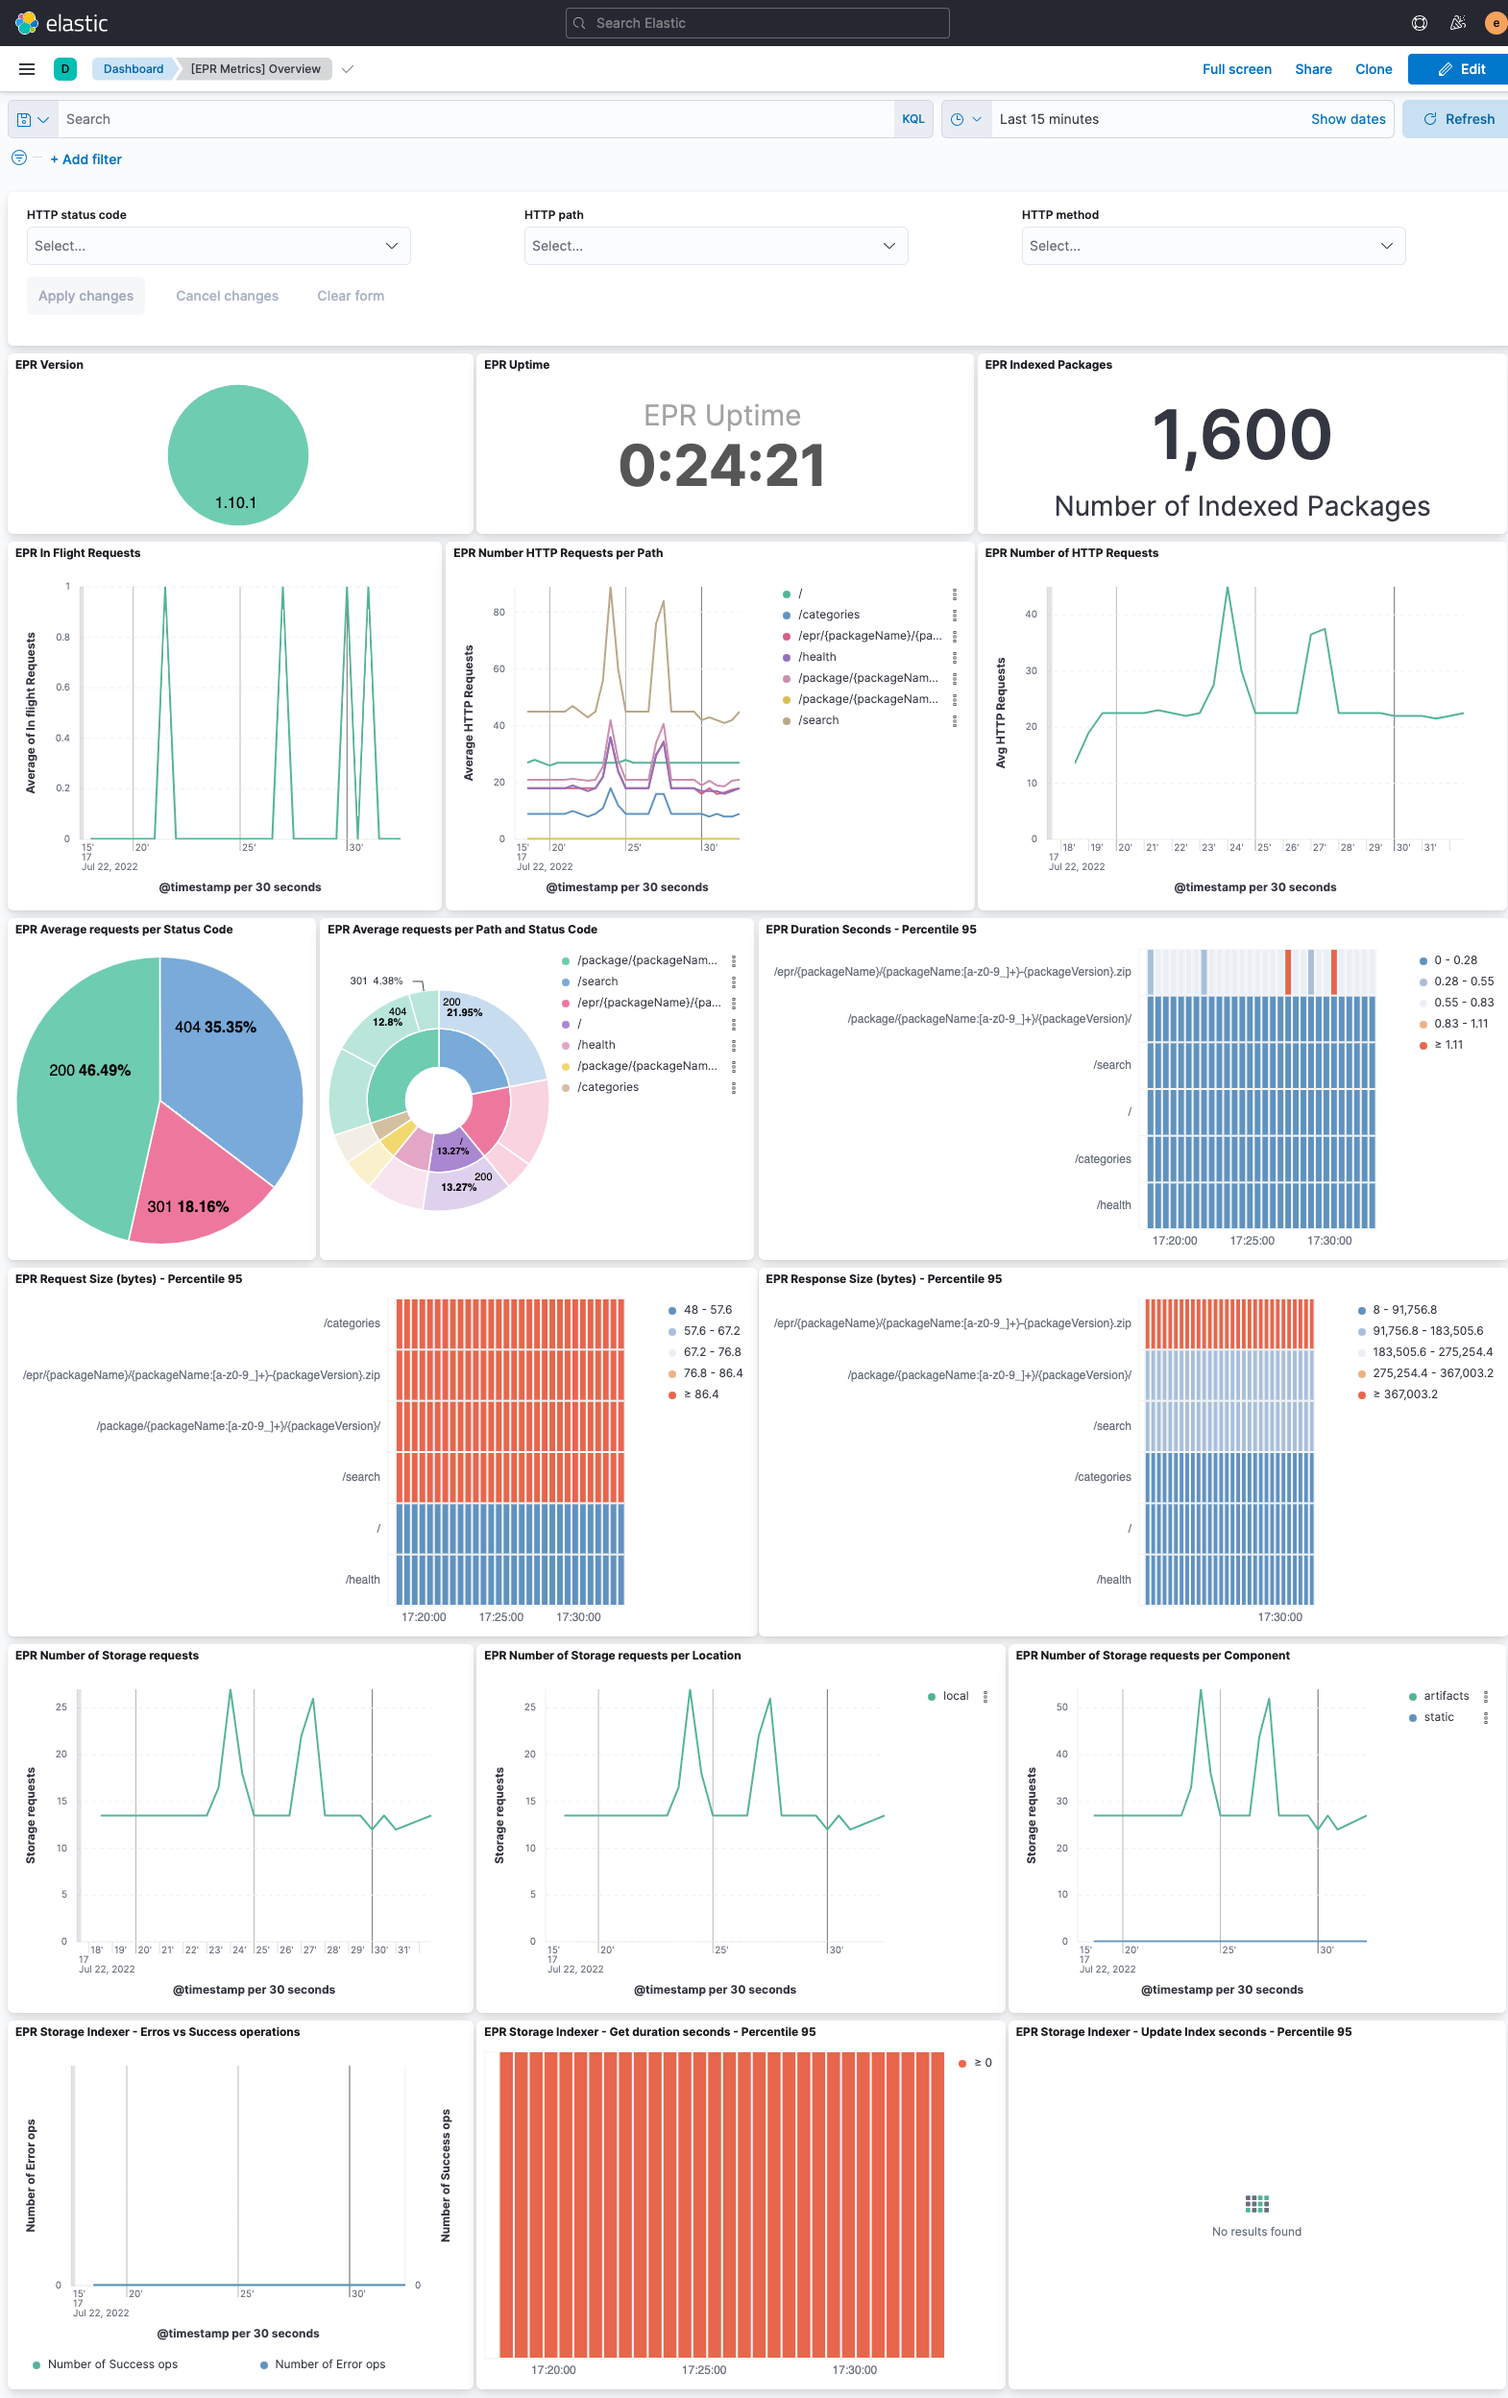
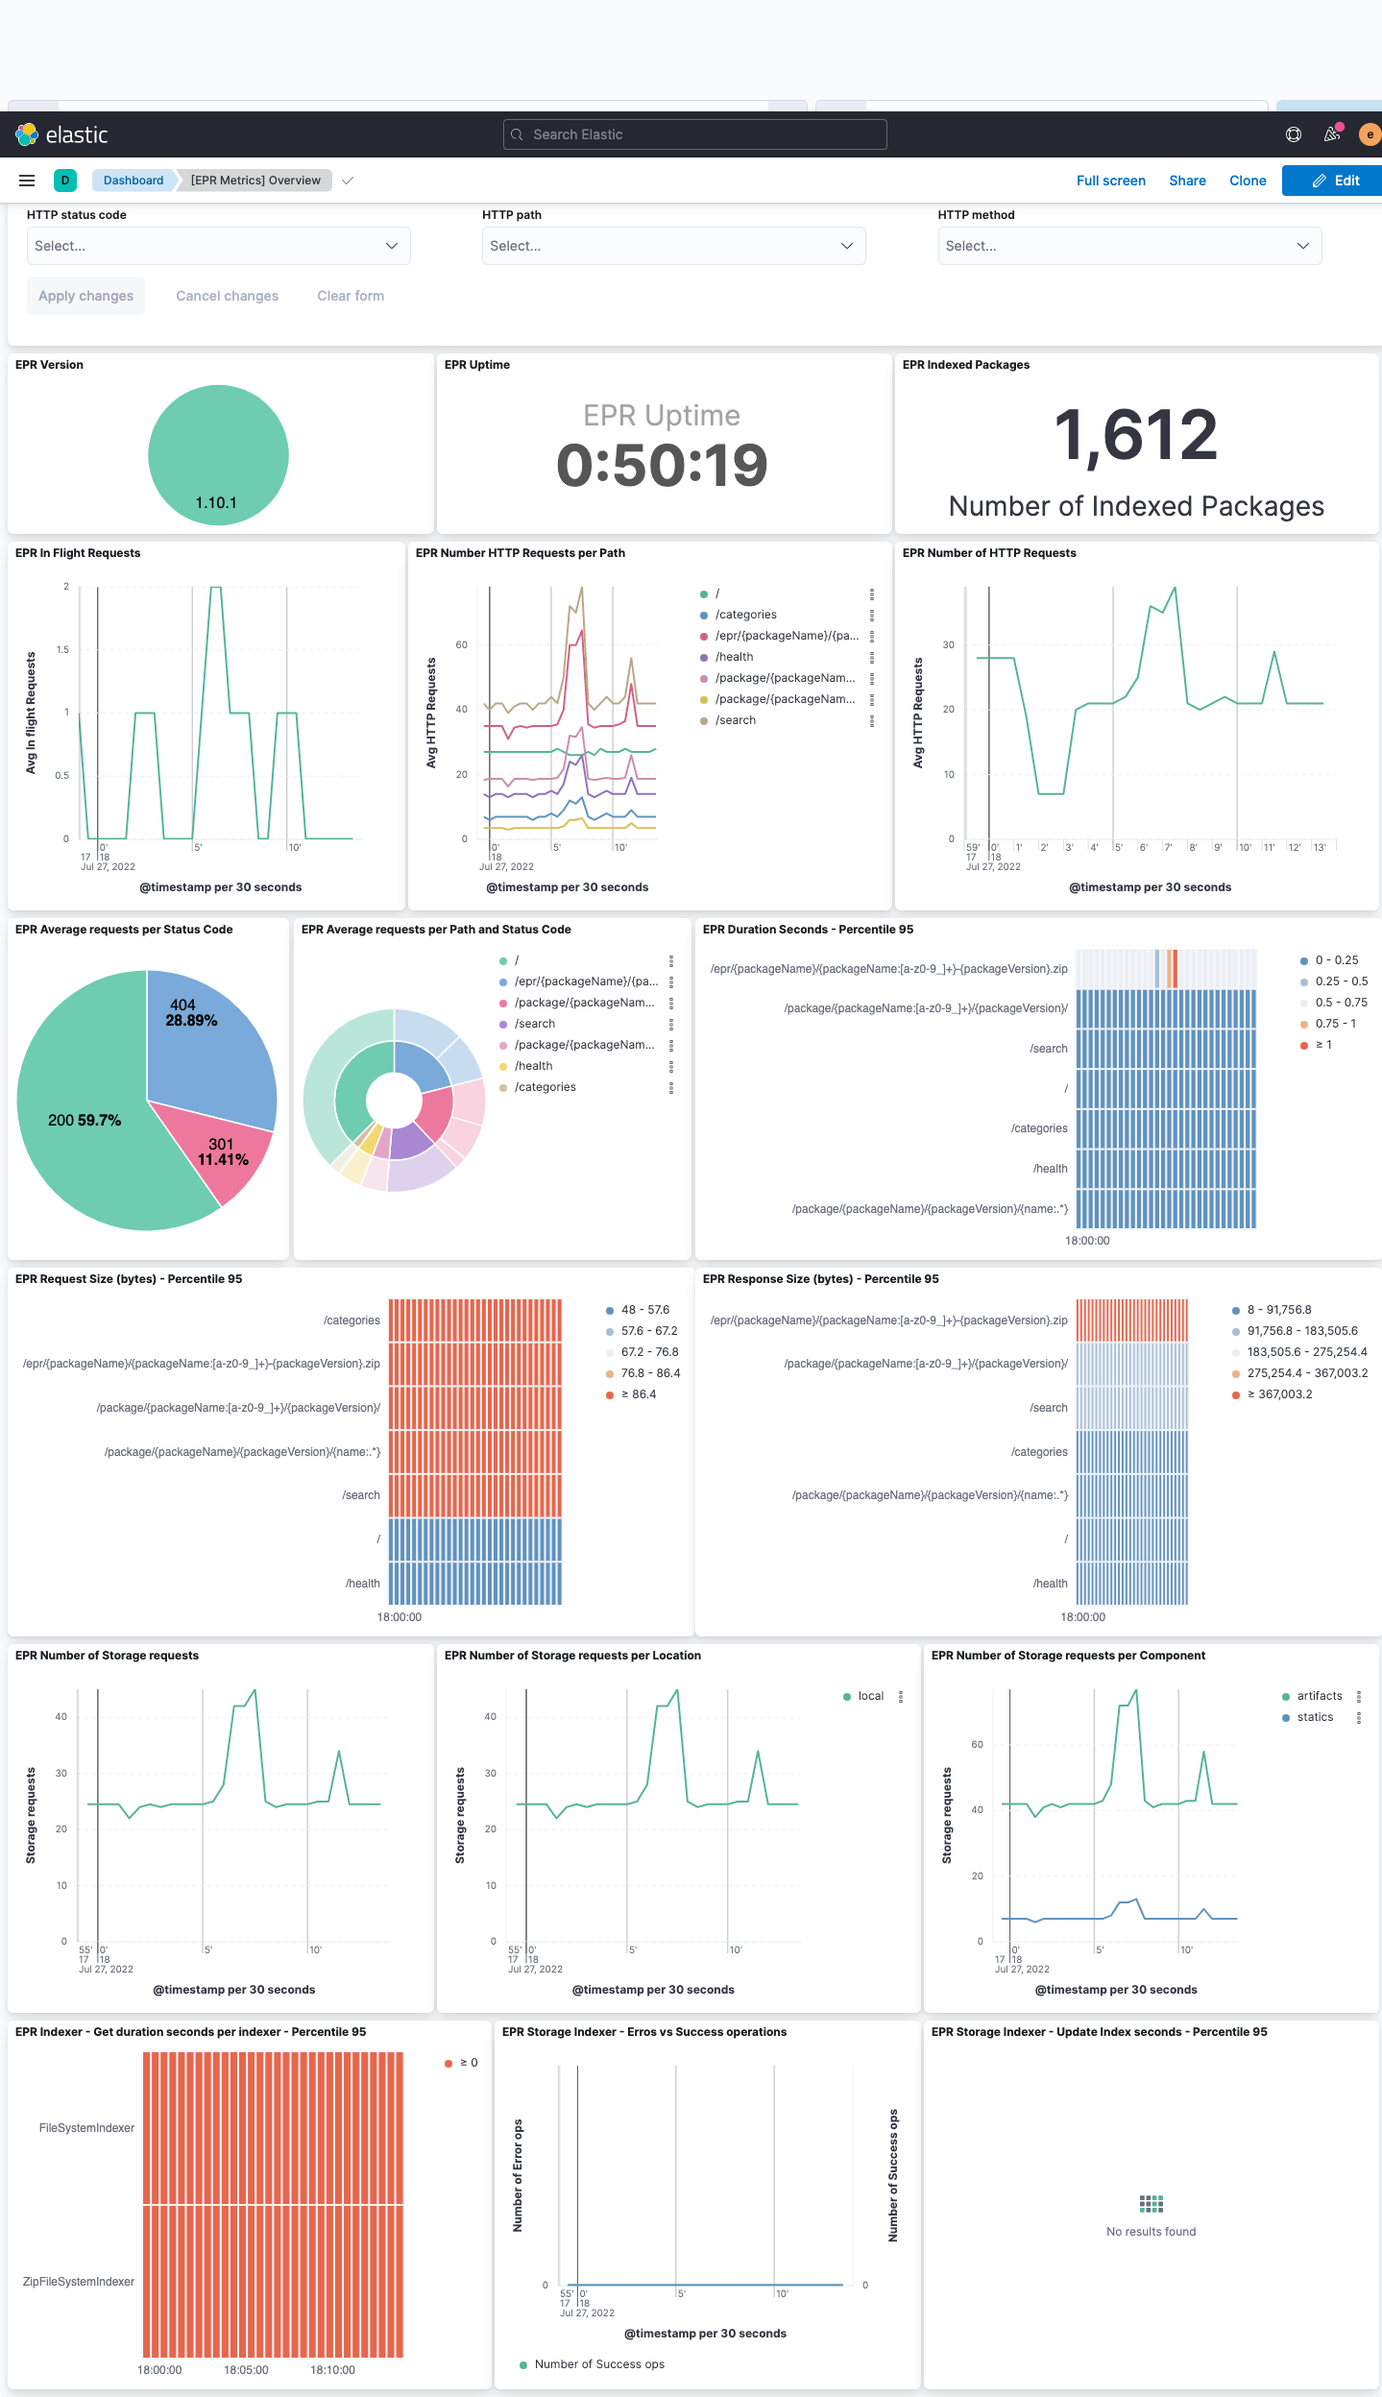
Copy over local package sources

diff --git a/packages/elastic_package_registry/0.0.3/docs/README.md b/packages/elastic_package_registry/0.0.3/docs/README.md
@@ -55,8 +55,12 @@ You can verify that metrics endpoint is enabled by making an HTTP request to
 | package_registry.http.response_size_bytes.histogram.values | Bucket values of the the histogram of response sizes for requests to the http server | histogram |  |  |
 | package_registry.http_requests_total.counter | Counter for requests to the http server | double |  | counter |
 | package_registry.in_flight_requests | Requests currently being served by the http server | double |  | gauge |
+| package_registry.indexer.get_duration_seconds.histogram | A histogram of latencies for get processes run by the indexer | histogram |  |  |
+| package_registry.indexer.get_duration_seconds.histogram.counts | Counters of the histogram of latencies for get processes run by the indexer | histogram |  |  |
+| package_registry.indexer.get_duration_seconds.histogram.values | Bucket values of the histogram of latencies for get processes run by the indexer | histogram |  |  |
 | package_registry.labels.code | HTTP Code | keyword |  |  |
 | package_registry.labels.component | Component type of the storage (statics, artifacts, signature...) | keyword |  |  |
+| package_registry.labels.indexer | Indexer type | keyword |  |  |
 | package_registry.labels.instance | Elastic Package Registry instance | keyword |  |  |
 | package_registry.labels.job |  | keyword |  |  |
 | package_registry.labels.location | Storage location (remote or local) | keyword |  |  |
@@ -66,14 +70,11 @@ You can verify that metrics endpoint is enabled by making an HTTP request to
 | package_registry.number_indexed_packages | Number of indexed packages | integer |  | gauge |
 | package_registry.start_time | Date where Elastic Package Registry started | date |  | gauge |
 | package_registry.start_time_seconds | Start time of the process since unix epoch in seconds | double | s | gauge |
-| package_registry.storage_indexer.get_duration_seconds.histogram | A histogram of latencies for get processes run by the indexer | histogram |  |  |
-| package_registry.storage_indexer.get_duration_seconds.histogram.counts | Counters of the histogram of latencies for get processes run by the indexer | histogram |  |  |
-| package_registry.storage_indexer.get_duration_seconds.histogram.values | Bucket values of the histogram of latencies for get processes run by the indexer | histogram |  |  |
-| package_registry.storage_indexer.update_index_duration_seconds.histogram | A histogram of latencies for update index processes run by the indexer | histogram |  |  |
-| package_registry.storage_indexer.update_index_duration_seconds.histogram.counts | Counters of the histogram of latencies for update index processes run by the indexer | histogram |  |  |
-| package_registry.storage_indexer.update_index_duration_seconds.histogram.values | Bucket values of the histogram of latencies for update index processes run by the indexer | histogram |  |  |
-| package_registry.storage_indexer.update_index_error_total.counter | A counter for all the update index processes that finished with error | long |  |  |
-| package_registry.storage_indexer.update_index_success_total.counter | A counter for all the update index processes that finished with error | long |  |  |
+| package_registry.storage_indexer.update_index_duration_seconds.histogram | A histogram of latencies for update index processes run by the storage indexer | histogram |  |  |
+| package_registry.storage_indexer.update_index_duration_seconds.histogram.counts | Counters of the histogram of latencies for update index processes run by the storage indexer | histogram |  |  |
+| package_registry.storage_indexer.update_index_duration_seconds.histogram.values | Bucket values of the histogram of latencies for update index processes run by the storage indexer | histogram |  |  |
+| package_registry.storage_indexer.update_index_error_total.counter | A counter for all the update index processes that finished with error in the storage indexer | long |  |  |
+| package_registry.storage_indexer.update_index_success_total.counter | A counter for all the update index processes that finished with success in the storage indexer | long |  |  |
 | package_registry.storage_requests_total.counter | Counter for requests performed to the storage | long |  | counter |
 | package_registry.uptime | Elastic Package Registry uptime in seconds | long | s | counter |
 | service.address | Address where data about this service was collected from. This should be a URI, network address (ipv4:port or [ipv6]:port) or a resource path (sockets). | keyword |  |  |
@@ -85,13 +86,13 @@ An example event for `metrics` looks as following:
 
 ```json
 {
-    "@timestamp": "2022-07-20T12:31:14.439Z",
+    "@timestamp": "2022-07-28T09:54:47.993Z",
     "agent": {
-        "ephemeral_id": "2e34ed1d-357c-482c-9640-d0ab91f43e0b",
-        "id": "2e305fba-81f6-49b1-be45-f7198c6aaa53",
+        "ephemeral_id": "fb0962b4-3f3f-48d6-81d6-3df63366f744",
+        "id": "97cba3e2-ea7d-4d80-aa69-75752faa1576",
         "name": "docker-fleet-agent",
         "type": "metricbeat",
-        "version": "8.3.2"
+        "version": "8.0.0"
     },
     "data_stream": {
         "dataset": "elastic_package_registry.metrics",
@@ -102,15 +103,15 @@ An example event for `metrics` looks as following:
         "version": "8.3.1"
     },
     "elastic_agent": {
-        "id": "2e305fba-81f6-49b1-be45-f7198c6aaa53",
+        "id": "97cba3e2-ea7d-4d80-aa69-75752faa1576",
         "snapshot": false,
-        "version": "8.3.2"
+        "version": "8.0.0"
     },
     "event": {
         "agent_id_status": "verified",
         "dataset": "elastic_package_registry.metrics",
-        "duration": 27108917,
-        "ingested": "2022-07-20T12:31:15Z",
+        "duration": 7602509,
+        "ingested": "2022-07-28T09:54:51Z",
         "kind": "metric",
         "module": "prometheus"
     },
@@ -119,10 +120,10 @@ An example event for `metrics` looks as following:
         "containerized": false,
         "hostname": "docker-fleet-agent",
         "ip": [
-            "192.168.112.7"
+            "172.31.0.7"
         ],
         "mac": [
-            "02:42:c0:a8:70:07"
+            "02:42:ac:1f:00:07"
         ],
         "name": "docker-fleet-agent",
         "os": {
@@ -132,7 +133,7 @@ An example event for `metrics` looks as following:
             "name": "Ubuntu",
             "platform": "ubuntu",
             "type": "linux",
-            "version": "20.04.4 LTS (Focal Fossa)"
+            "version": "20.04.3 LTS (Focal Fossa)"
         }
     },
     "metricset": {
@@ -140,16 +141,8 @@ An example event for `metrics` looks as following:
         "period": 30000
     },
     "package_registry": {
-        "in_flight_requests": 0,
-        "labels": {
-            "instance": "elastic-package-service_elastic_package_registry_1:9110",
-            "job": "prometheus"
-        },
-        "number_indexed_packages": 1434,
-        "start_time": "2022-07-20T12:30:46.030Z",
-        "start_time_seconds": 1658320246.03,
-        "storage_indexer": {
-            "get_duration_seconds": {
+        "http": {
+            "request_duration_seconds": {
                 "histogram": {
                     "counts": [
                         0,
@@ -181,11 +174,9 @@ An example event for `metrics` looks as following:
                     ]
                 }
             },
-            "update_index_duration_seconds": {
+            "request_size_bytes": {
                 "histogram": {
                     "counts": [
-                        0,
-                        0,
                         0,
                         0,
                         0,
@@ -198,29 +189,58 @@ An example event for `metrics` looks as following:
                         0
                     ],
                     "values": [
-                        0.0025,
-                        0.0075,
-                        0.0175,
-                        0.037500000000000006,
-                        0.07500000000000001,
-                        0.175,
-                        0.375,
-                        0.75,
-                        1.75,
-                        3.75,
-                        7.5,
-                        15
+                        8,
+                        24,
+                        48,
+                        96,
+                        192,
+                        384,
+                        768,
+                        33280,
+                        163840,
+                        458752
                     ]
                 }
             },
-            "update_index_error_total": {
-                "counter": 0
-            },
-            "update_index_success_total": {
-                "counter": 0
+            "response_size_bytes": {
+                "histogram": {
+                    "counts": [
+                        0,
+                        0,
+                        0,
+                        0,
+                        0,
+                        0,
+                        0,
+                        0,
+                        0,
+                        0
+                    ],
+                    "values": [
+                        8,
+                        24,
+                        48,
+                        96,
+                        192,
+                        384,
+                        768,
+                        33280,
+                        163840,
+                        458752
+                    ]
+                }
             }
         },
-        "uptime": 28
+        "http_requests_total": {
+            "counter": 20
+        },
+        "labels": {
+            "code": "200",
+            "instance": "elastic-package-service_elastic_package_registry_1:9110",
+            "job": "prometheus",
+            "method": "get",
+            "path": "/"
+        }
     },
     "service": {
         "address": "http://elastic-package-service_elastic_package_registry_1:9110/metrics",
